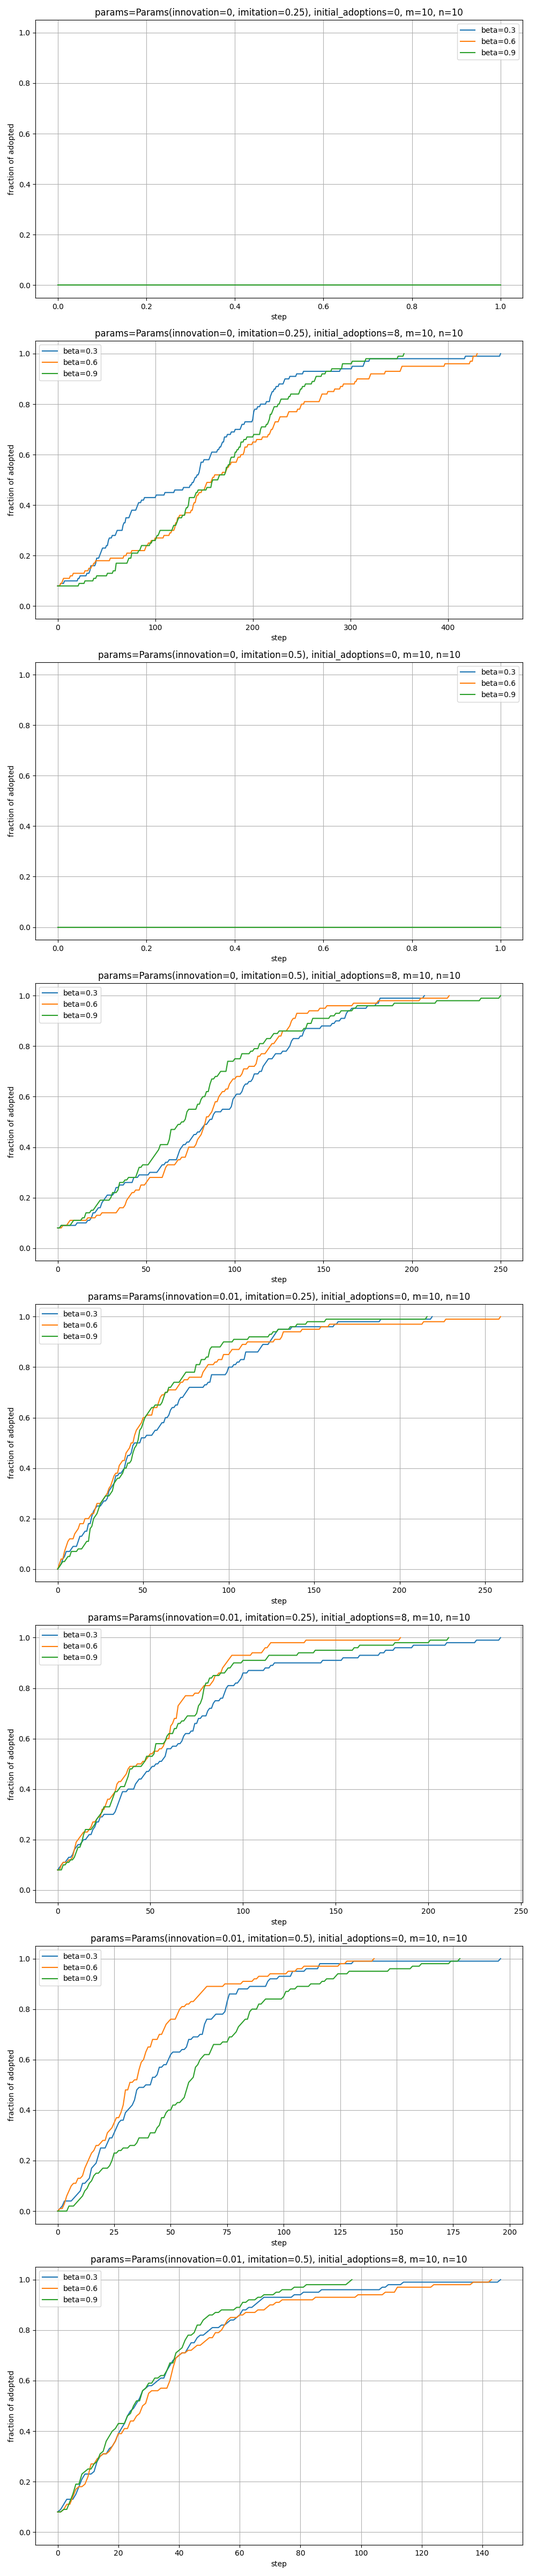
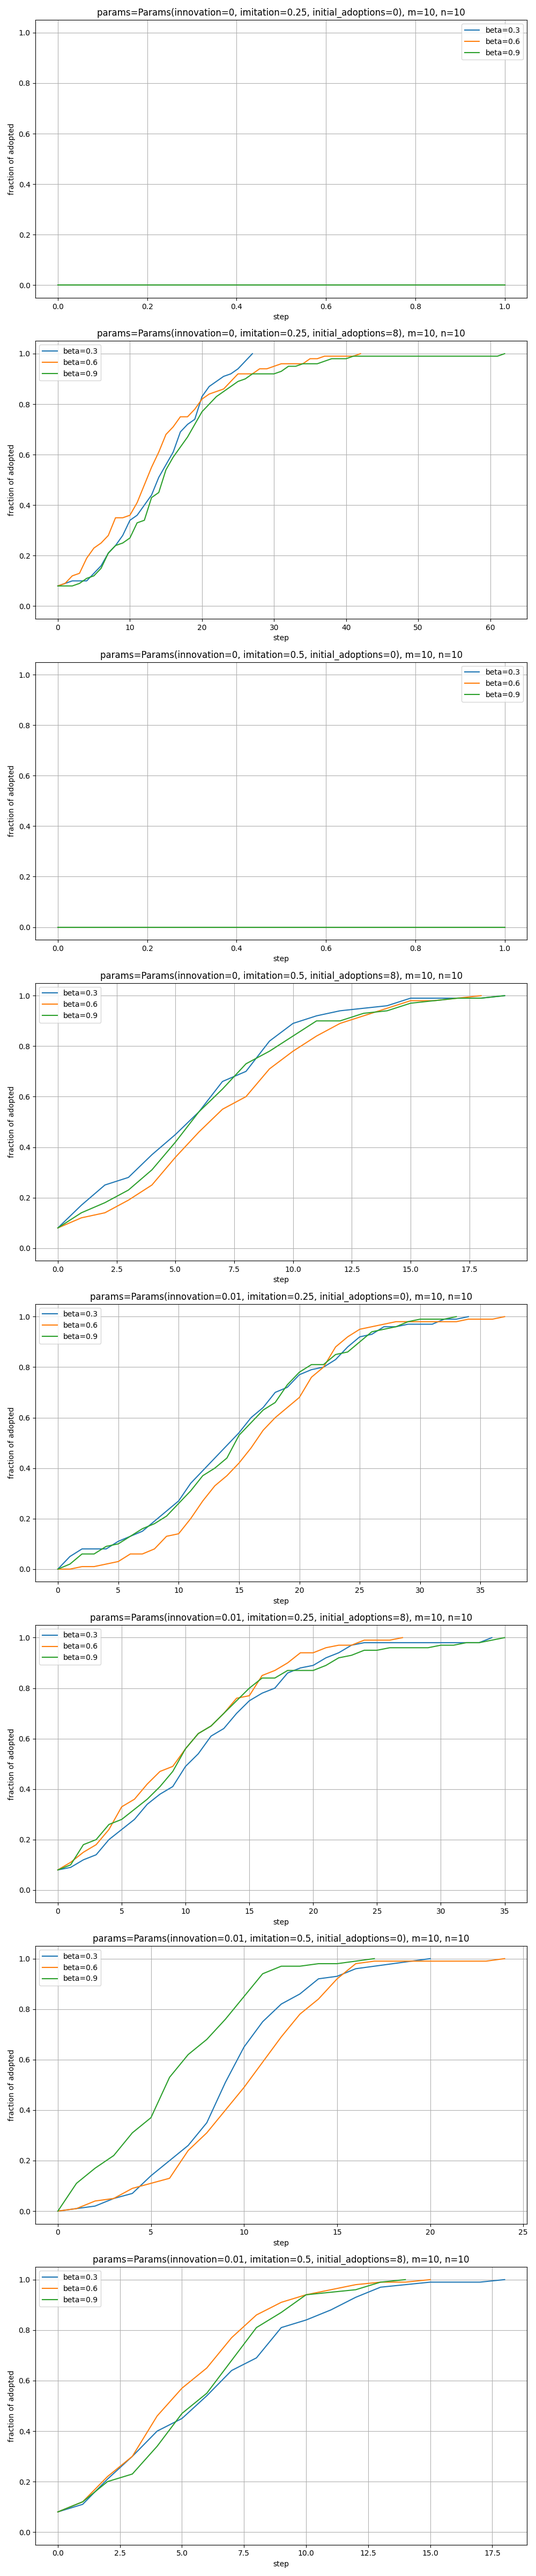
ksjnbhsnvkdf

diff --git a/projects/agent_based_modelling/assignment_6/main.py b/projects/agent_based_modelling/assignment_6/main.py
@@ -10,7 +10,7 @@ from projects.agent_based_modelling.assignment_6.runge_kutta import runge_kutta_
 from projects.agent_based_modelling.assignment_6.graphs import lattice_with_diagonals
 
 
-GRAPH_SIZES = [(40, 40)]
+GRAPH_SIZES = [(10, 10)]
 PARAMS = [
     Params(
         innovation=innovation,
@@ -19,14 +19,14 @@ PARAMS = [
     )
     for innovation, imitation, initial_adoptions
     in product(
-        [0.001, 0.004, 0.007],
+        [0, 0.01],
         [0.25, 0.5],
         [0, 8],
     )
 ]
 
 REWIRING_PROBABILITIES = [0.3, 0.6, 0.9]
-TIME_TO_STABILISE_RUNS = 10
+TIME_TO_STABILISE_RUNS = 100
 
 
 def plot_evolutions():
@@ -79,6 +79,7 @@ def plot_time_to_stabilise():
     ax.set_title(f"mean time to stabilise as a function of beta over {TIME_TO_STABILISE_RUNS} runs")
     ax.set_xlabel("beta")
     ax.set_ylabel("mean time to stabilise")
+    ax.grid()
     plt.show()
 
 
@@ -124,14 +125,15 @@ def compare_graph_and_ode():
     plt.title("comparison of the graph simulation with the ode")
     plt.xlabel("step")
     plt.ylabel("fraction of adopted")
+    plt.grid()
     plt.legend()
     plt.show()
 
 
 def main():
-    # plot_evolutions()
+    plot_evolutions()
     plot_time_to_stabilise()
-    # compare_graph_and_ode()
+    compare_graph_and_ode()
 
 
 if __name__ == "__main__":
